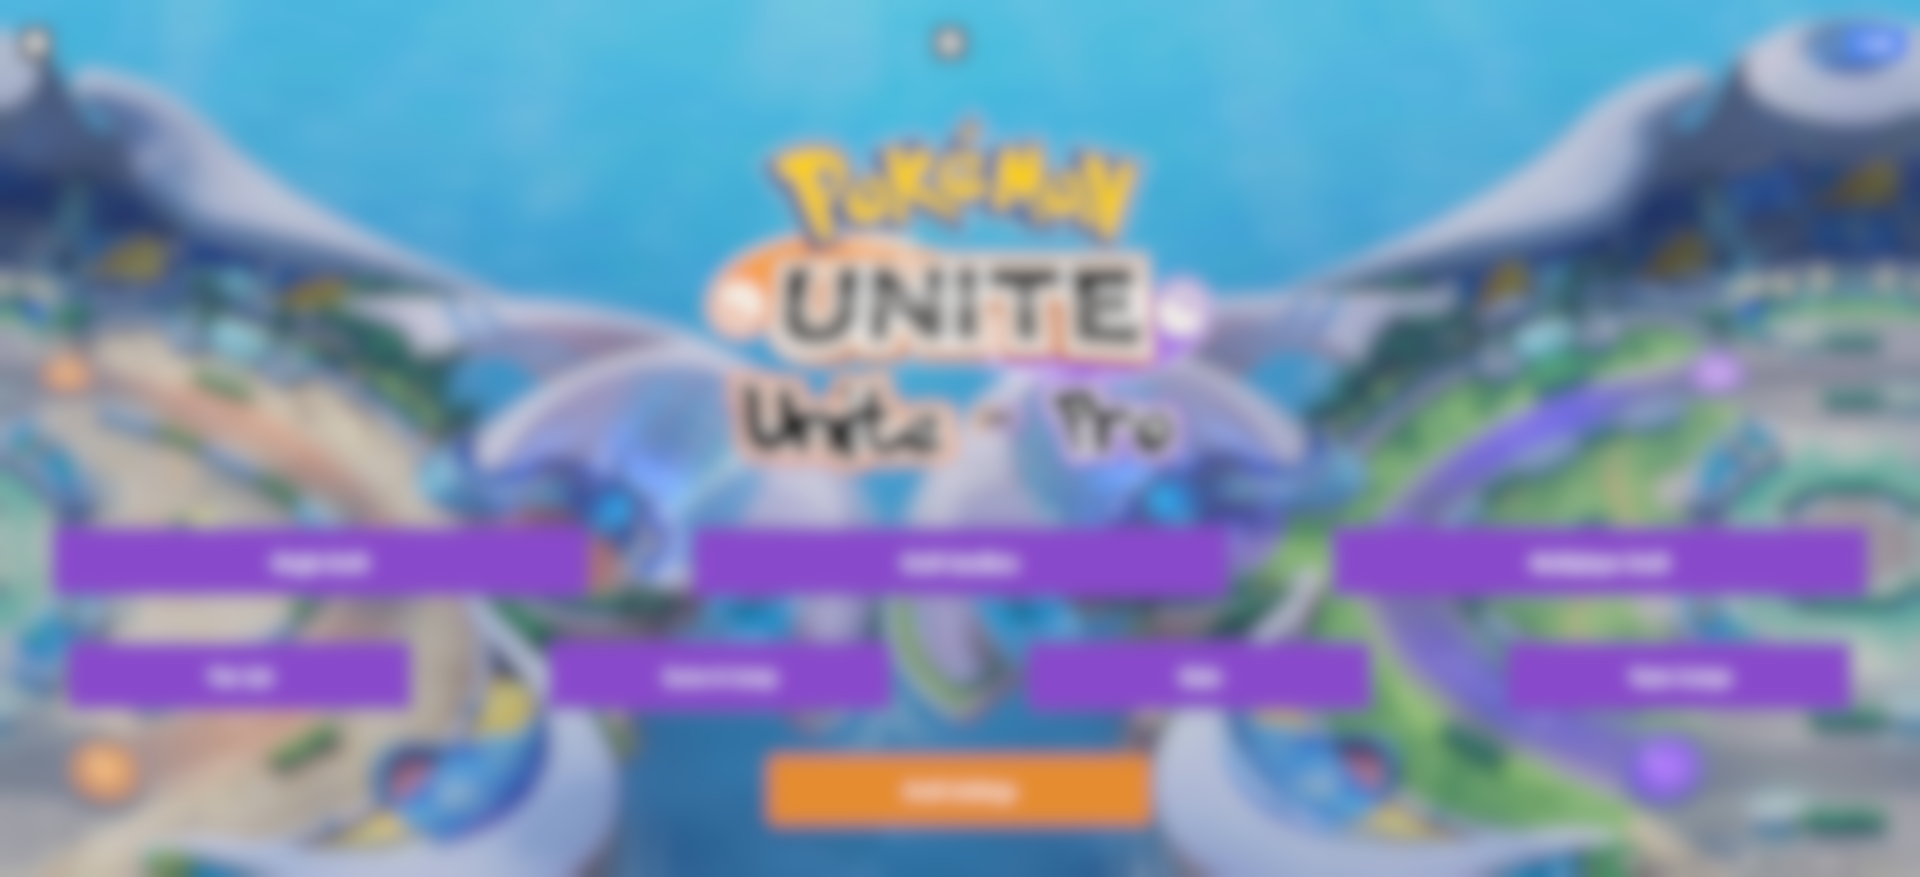
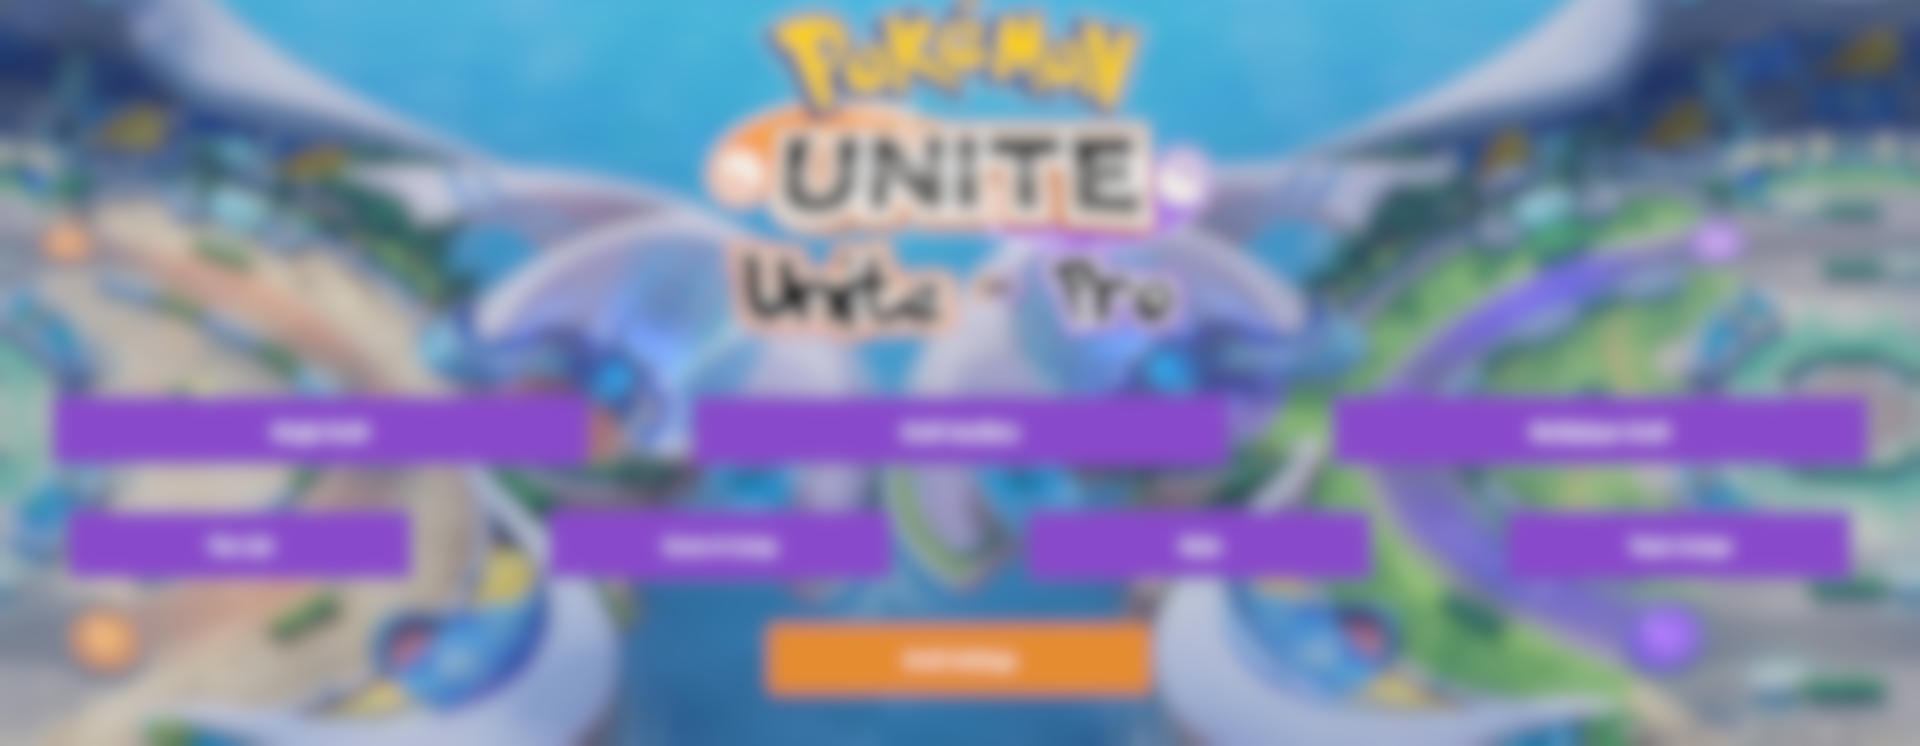
Improved some readibility stuff and outlined the portfolio section

diff --git a/src/components/mainComponents/js/Main.jsx b/src/components/mainComponents/js/Main.jsx
@@ -11,12 +11,14 @@ import ContactBar from '../../sideComponents/js/ContactBar';
 import '../css/main-core.css';
 import '../css/main-education.css';
 import '../css/main-intro.css';
+import '../css/main-portfolio.css';
 
 function Main() {
   const [scrollPoint, setScrollPoint] = useState(0);
+  const [portfolioProject, setPortfolioProject] = useState("unite-pro");
   const viewportHeight = window.innerHeight;
   const baseSectionHeight = viewportHeight;
-  const spacerDist = 300;
+  const spacerDist = 200;
   const sectionHeight = baseSectionHeight;
   const sectionAndSpacer = sectionHeight + spacerDist;
   const endSectionOne = sectionHeight + spacerDist/2; // The middle of the spacer after section 1
@@ -24,39 +26,6 @@ function Main() {
   const endSectionThree = sectionHeight * 3 + (spacerDist*5)/2;
   const navigate = useNavigate();
 
-  /// Scale On Scroll Effect
-  // useEffect(() => {
-  //   const handleScroll = () => {
-  //     setScrollPoint(window.scrollY);
-
-  //     const elements = document.querySelectorAll('.scale-on-scroll');
-  //     elements.forEach(el => {
-  //       const rect = el.getBoundingClientRect();
-  //       const windowHeight = window.innerHeight;
-
-  //       // How far the element is from the center of the screen
-  //       const distanceFromCenter = Math.abs(rect.top + rect.height / 2 - windowHeight / 2);
-
-  //       // Normalize and clamp the scale factor between 0.8 and 1
-  //       const maxDistance = windowHeight / 2;
-    
-  //       let scale = Math.max(0.8, 1 - distanceFromCenter / maxDistance * 0.2);
-  //       if (maxDistance - distanceFromCenter < 120) {
-  //         scale = 1 - distanceFromCenter / maxDistance
-  //       }
-
-  //       el.style.setProperty('--scale', scale.toFixed(3));
-  //     });
-  //   };
-
-  //   window.addEventListener('scroll', handleScroll);
-  //   handleScroll(); // Trigger once on mount
-  //   document.documentElement.style.setProperty('--sectionHeight', `${sectionHeight}px`);
-  //   document.documentElement.style.setProperty('--spacerHeight', `${spacerDist}px`);
-  //   return () => window.removeEventListener('scroll', handleScroll);
-  // }, []);
-
-  /// Snap to close sections effect
   useEffect(() => {
     const snapThreshold = 200; // px
 
@@ -147,7 +116,7 @@ function Main() {
           </div>
           <div className="educationBottom">
             <div id="TAList" className="educationList">
-              < Listing listing={TA_TAKEAWAYS} title="Accomplishments as a CSE348 GameAI Grader" color={"#663700"} />
+              < Listing listing={TA_TAKEAWAYS} title="Accomplishments as a CSE348 (GameAI) TA" color={"#663700"} />
             </div>
             <div className="educationCarousel">
               <ImageCarousel images={EDUCATION_CAROUSEL} />
@@ -158,20 +127,23 @@ function Main() {
           </div>
         </div> 
         {/* END EDUCATION SECTION */}
-        <div className="spacer"></div>
-        {/* START UNITE-PRO SECTION */}
-        <div id="secondSection" className="section">
-          <div className="scale-on-scroll">
-                <div className="textBlob bobbing1">
-                  <h3 className='title'>Unite-Pro.net</h3>
-                  { UNITE_PRO_TEXT }
-                </div>
-              </div>
-          <div className="imageDisplay scale-on-scroll" id="professionalImage">
-            <img src="./assets/me/Grad.png"></img>
+        <div className="spacer" id="secondSpacer"></div>
+        {/* START PORTFOLIO SECTION */}
+        <div id="portfolioSection" className="section">
+          <div className="portfolioTop">
+
+          </div>
+          <div className={`portfolioMiddle ${portfolioProject}`}>
+            <div className="portfolioProjectSelector">
+              <div className={`portfolioProject ${portfolioProject === 'unite-pro' ? 'selected' : ''}`} onClick={() => {setPortfolioProject('unite-pro')}}>Unite-Pro</div>
+              <div className={`portfolioProject ${portfolioProject === 'enrolld' ? 'selected' : ''}`} onClick={() => {setPortfolioProject('enrolld')}}>Enrolld</div>
+            </div>
+          </div>
+          <div className="portfolioBottom">
+
           </div>
         </div>
-        {/* END UNITE-PRO SECTION */}
+        {/* END PORTFOLIO SECTION */}
         <div className="spacer"></div>
         <div id="thirdSection" className="section">
           <div className="textSection scale-on-scroll" id="educationInformation">

diff --git a/src/components/mainComponents/css/main-portfolio.css b/src/components/mainComponents/css/main-portfolio.css
@@ -1,0 +1,61 @@
+#portfolioSection {
+    padding: 0;
+    margin: 0;
+    display: flex;
+    justify-content: center;
+    align-items: center;
+    flex-direction: column;
+}
+
+.portfolioTop {
+    width: 100%;
+    height: 10%;
+    background-color: #00796B;
+}
+
+.portfolioMiddle {
+    width: 100%;
+    height: 40%;
+    background-repeat: no-repeat;
+    background-size: cover;
+    border-top: 5px solid black;
+    border-bottom: 5px solid black;
+}
+
+.portfolioMiddle.unite-pro {
+    background-image: url('/assets/backgrounds/unite-pro.png');
+}
+
+.portfolioMiddle.enrolld {
+    background-image: url();
+}
+
+.portfolioProjectSelector {
+    height: 25%;
+    width: 100%;
+    display: flex;
+    justify-content: center;
+    align-items: center;
+}
+
+.portfolioProject {
+    height: 100%;
+    width: 50%;
+    display: flex;
+    justify-content: center;
+    align-items: center;
+    font-size: 24px;
+    font-family: Verdana, Geneva, Tahoma, sans-serif;
+    font-weight: bold;
+    color: white;
+}
+
+.portfolioProject.selected {
+    text-decoration: underline;
+}
+
+.portfolioBottom {
+    width: 100%;
+    height: 50%;
+    background-color: #f7f7f7;
+}

diff --git a/src/components/mainComponents/css/main-education.css b/src/components/mainComponents/css/main-education.css
@@ -42,7 +42,7 @@
 
 #educationMiddleContent {
     height: 100%;
-    width: 60%;
+    width: 55%;
     display: flex;
     justify-content: center;
     align-items: center;
@@ -63,6 +63,7 @@
     align-items: center;
     font-family: Verdana, Geneva, Tahoma, sans-serif;
     text-align: center;
+    font-weight: bold;
 }
 
 #degreeInformation {
@@ -82,6 +83,7 @@
     justify-content: center;
     align-items: center;
     font-family: Verdana, Geneva, Tahoma, sans-serif;
+    font-weight: bold;
 }
 
 #lehighLogo {

diff --git a/src/components/mainComponents/css/main-core.css b/src/components/mainComponents/css/main-core.css
@@ -52,6 +52,10 @@ body::-webkit-scrollbar {
     background-color: #f7f7f7;
 }
 
+#secondSpacer {
+    background-color: #00796B;
+}
+
 .textSection {
     width: 50%;
     height: 100%;

diff --git a/src/components/mainComponents/css/main-intro.css b/src/components/mainComponents/css/main-intro.css
@@ -54,6 +54,7 @@
     font-size: 2.5rem;
     color: white;
     text-shadow: 6px 6px 12px rgba(0, 0, 0, 0.6);
+    font-weight: bold;
 }
 
 .links {
